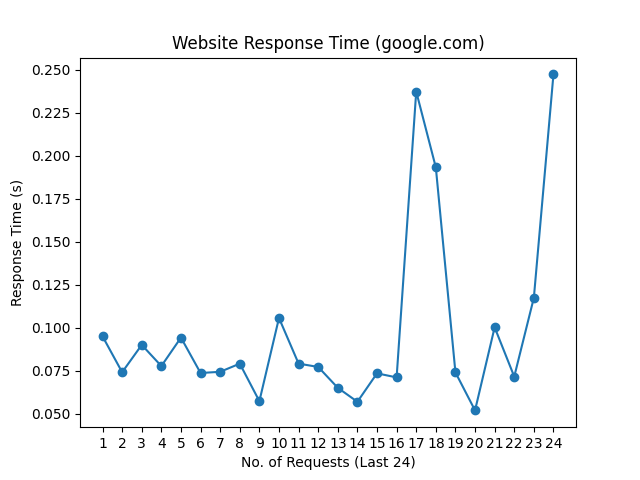
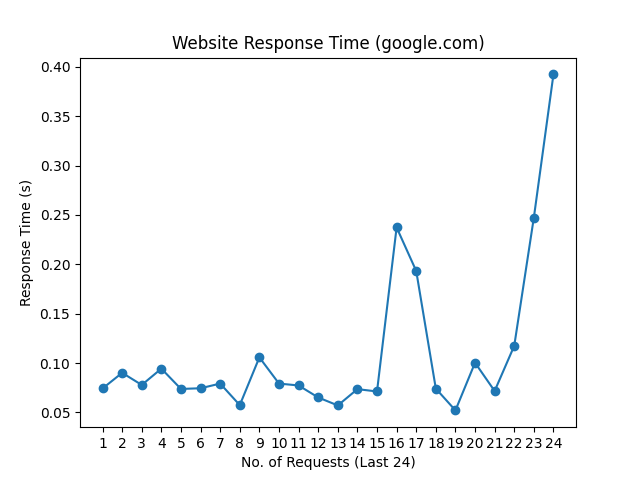
update README.md, history and graph

diff --git a/README.md b/README.md
@@ -1,10 +1,10 @@
 # Web Monitoring
 
-Last Checked: 14/05/2025 08:23
+Last Checked: 15/05/2025 08:22
 
 | Website | Response Time (s) | Status | Avg Uptime (%) |
 |---------|-------------------|--------|----------------|
 | www.thiswebsiteisdown.net | 0 <br> <img src="graph/thiswebsiteisdown.net.png" alt="Graph" width="200" height="200">  | ❌ Down | 0.00 |
-| www.netflix.com | 0.934921 <br> <img src="graph/netflix.com.png" alt="Graph" width="200" height="200">  | ✅ Up | 99.69 |
-| www.google.com | 0.247302 <br> <img src="graph/google.com.png" alt="Graph" width="200" height="200">  | ✅ Up | 100.00 |
-| www.facebook.com | 0.516798 <br> <img src="graph/facebook.com.png" alt="Graph" width="200" height="200">  | ✅ Up | 100.00 |
+| www.netflix.com | 0.879871 <br> <img src="graph/netflix.com.png" alt="Graph" width="200" height="200">  | ✅ Up | 99.69 |
+| www.google.com | 0.392388 <br> <img src="graph/google.com.png" alt="Graph" width="200" height="200">  | ✅ Up | 100.00 |
+| www.facebook.com | 0.599273 <br> <img src="graph/facebook.com.png" alt="Graph" width="200" height="200">  | ✅ Up | 100.00 |
